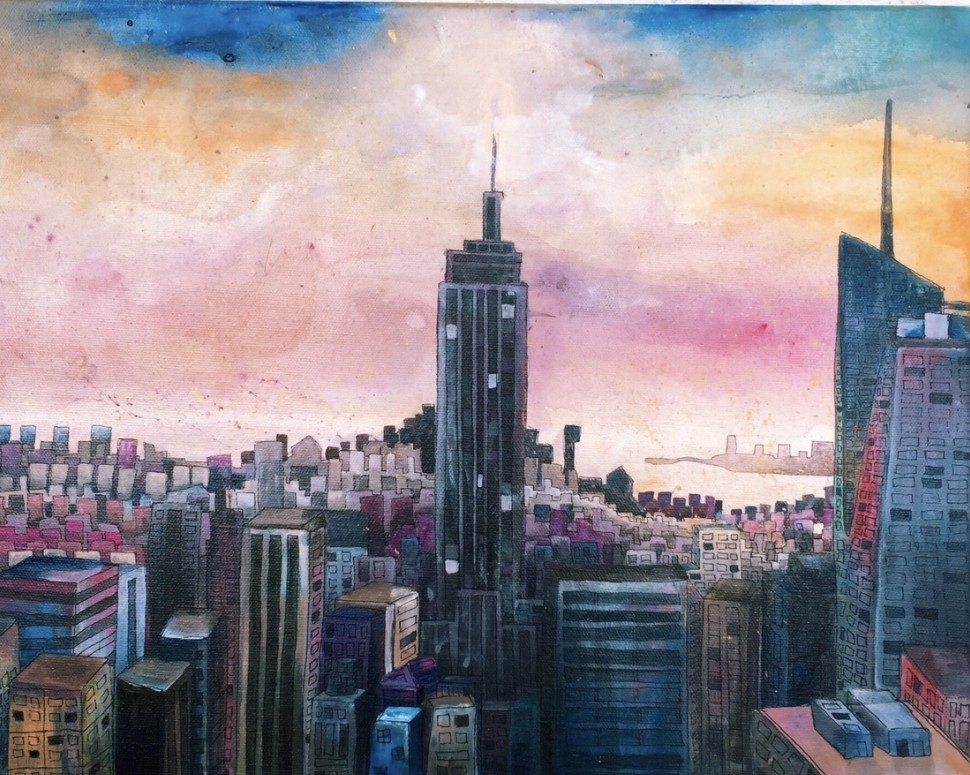
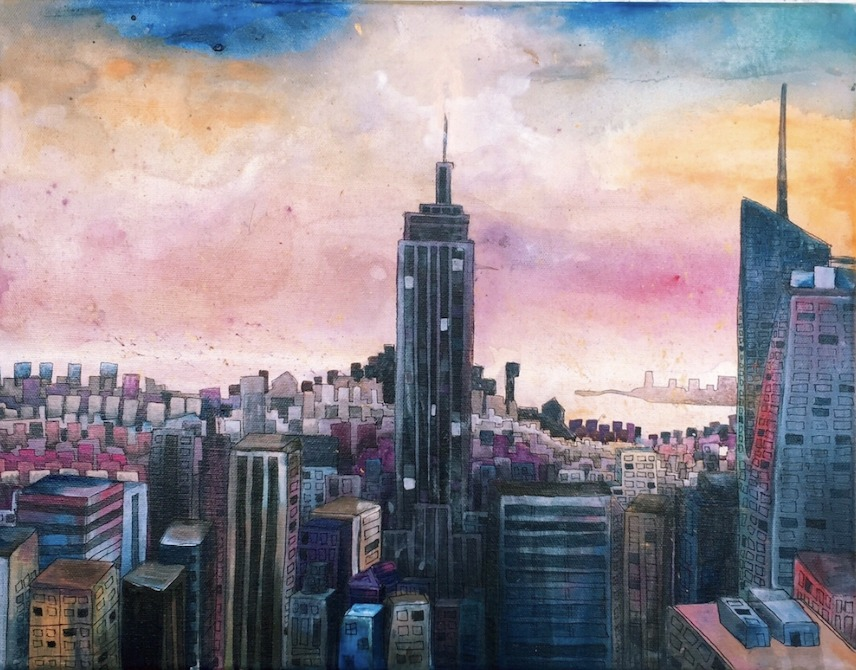
Add files via upload

diff --git a/index.html b/index.html
@@ -457,24 +457,20 @@
   }
 
   .painting-row{
-    display: grid;
-    grid-template-columns: repeat(3, 1fr);
-    gap: 14px;
+    display: flex;
+    align-items: flex-end;
+    gap: 16px;
+    flex-wrap: wrap;
     margin-top: 20px;
-    max-width: 620px;
   }
 
   .painting-row img{
-    width: 100%;
-    aspect-ratio: 1 / 1;
-    object-fit: cover;
+    height: 260px;
+    width: auto;
+    max-width: 100%;
     border-radius: 8px;
     border: 1px solid var(--line);
     display: block;
-  }
-
-  .painting-row img:nth-child(2){
-    object-position: top center;
   }
 
   .dance-gallery{
@@ -608,6 +604,7 @@
     .section-num-inline{ font-size: 16px; }
     section{ padding: 36px 0; }
     .hero-marks{ gap: 14px; margin-bottom: 8px; font-size: 14px; }
+    .painting-row img{ height: 130px; }
     .hero-row{
       grid-template-columns: 110px 1fr;
       grid-template-areas:
